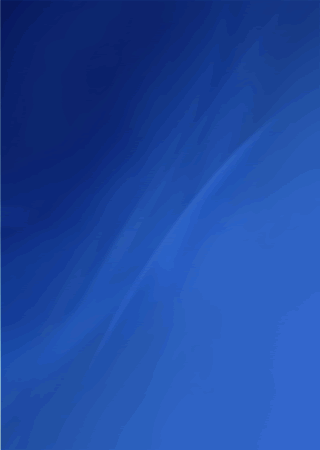
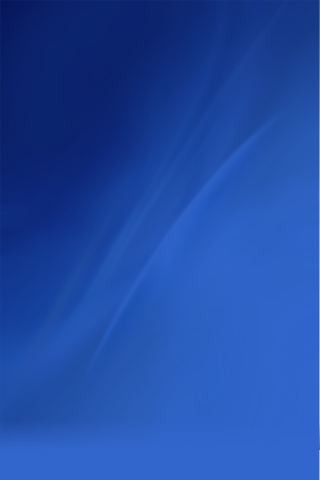
UP-2951 Updates to skin: smooth background colors, add list button styles, add margins to headings
git-svn-id: https://source.jasig.org/uPortal/trunk@23303 f5dbab47-78f9-eb45-b975-e544023573eb

diff --git a/uportal-war/src/main/webapp/media/skins/muniversality/common/portal.css b/uportal-war/src/main/webapp/media/skins/muniversality/common/portal.css
@@ -318,7 +318,7 @@ body, select, input, textarea {
 /* Headers (h1, h2, etc) have no default font-size or margin; define those yourself */
 h1, h2, h3, h4, h5, h6 {
   font-weight: bold;
-  margin-bottom: 0.5em;
+  margin: 1em 0;
 }
 
 h1 {
@@ -368,6 +368,7 @@ a:hover {
   visibility: hidden;
 }
 .up .logo {
+  margin-top: 10px;
   text-align: center;
 }
 
@@ -378,13 +379,28 @@ a:hover {
  * Styles specific to navigation.
  */
 /* Portlet Navigation */
+.up .portal-nav {
+  width: 300px;
+  margin: 0 auto;
+  text-align: center;
+  zoom: 1;
+}
+.up .portal-nav:before, .up .portal-nav:after {
+  content: "\0020";
+  display: block;
+  height: 0;
+  overflow: hidden;
+}
+.up .portal-nav:after {
+  clear: both;
+}
 .up .portal-nav .portlet {
   display: block;
   float: left;
   width: 70px;
-  height: 80px;
+  height: 84px;
   overflow: hidden;
-  margin: 0.5em;
+  margin: 10px;
 }
 .up .portal-nav .portlet .icon, .up .portal-nav .portlet .title {
   display: block;
@@ -424,12 +440,13 @@ a:hover {
 /* RGBA values include transparency and are easier than hexidecimal to use in 
 mathematical calculations. */
 /* Grayscale */
+/* Background color */
 /* Primary color, c1 */
 /* Secondary color, c2 */
 /* Tertiary color, c3 */
 /* Highlight color, c4 */
 .up {
-  background-color: #38678f;
+  background-color: #3366cc;
 }
 .up .ui-btn {
   font-family: Helvetica, Arial, sans-serif;
@@ -438,8 +455,7 @@ mathematical calculations. */
   border: 1px solid #38678f;
   color: white;
   text-shadow: 0 1px 0 black;
-  background: #4682b4 url("images/bg_320x480_flat.png") 0 25px no-repeat;
-  /*@include gradient($c1light, $c1dark);*/
+  background: #3366cc url("images/bg_320x480_flat.png") 0 25px no-repeat;
 }
 .up .dashboard .ui-link-inherit {
   color: white;
@@ -560,6 +576,45 @@ mathematical calculations. */
   text-decoration: none;
   background-image: -moz-linear-gradient(top, #294d6b, #4682b4);
   background-image: -webkit-gradient(linear, left top, left bottom, color-stop(0, #294d6b), color-stop(1, #4682b4));
+  -ms-filter: "progid:DXImageTransform.Microsoft.gradient(startColorStr='$color1', EndColorStr='$color2')";
+}
+.up .portlet-wrapper-content .ui-btn {
+  border: 1px solid #a9a9a9;
+  background: #f5f5f5;
+  font-weight: bold;
+  color: #444444;
+  cursor: pointer;
+  text-shadow: 0 1px 1px white;
+  text-decoration: none;
+  background-image: -moz-linear-gradient(top, #f5f5f5, #dcdcdc);
+  background-image: -webkit-gradient(linear, left top, left bottom, color-stop(0, #f5f5f5), color-stop(1, #dcdcdc));
+  -ms-filter: "progid:DXImageTransform.Microsoft.gradient(startColorStr='$color1', EndColorStr='$color2')";
+}
+.up .portlet-wrapper-content .ui-btn a.ui-link-inherit {
+  color: #5c5c5c;
+}
+.up .portlet-wrapper-content .ui-btn-hover-a, .up .portlet-wrapper-content .ui-btn-hover-b, .up .portlet-wrapper-content .ui-btn-hover-c, .up .portlet-wrapper-content .ui-btn-hover-d, .up .portlet-wrapper-content .ui-btn-hover-e {
+  border: 1px solid #8f8f8f;
+  background: #c3c3c3;
+  font-weight: bold;
+  color: black;
+  cursor: pointer;
+  text-shadow: 0 1px 1px white;
+  text-decoration: none;
+  background-image: -moz-linear-gradient(top, #dcdcdc, #c3c3c3);
+  background-image: -webkit-gradient(linear, left top, left bottom, color-stop(0, #dcdcdc), color-stop(1, #c3c3c3));
+  -ms-filter: "progid:DXImageTransform.Microsoft.gradient(startColorStr='$color1', EndColorStr='$color2')";
+}
+.up .portlet-wrapper-content .ui-btn-down-a, .up .portlet-wrapper-content .ui-btn-down-b, .up .portlet-wrapper-content .ui-btn-down-c, .up .portlet-wrapper-content .ui-btn-down-d, .up .portlet-wrapper-content .ui-btn-down-e {
+  border: 1px solid #294d6b;
+  background: #4682b4;
+  font-weight: bold;
+  color: white;
+  cursor: pointer;
+  text-shadow: 0 -1px 1px black;
+  text-decoration: none;
+  background-image: -moz-linear-gradient(top, #c3c3c3, #f5f5f5);
+  background-image: -webkit-gradient(linear, left top, left bottom, color-stop(0, #c3c3c3), color-stop(1, #f5f5f5));
   -ms-filter: "progid:DXImageTransform.Microsoft.gradient(startColorStr='$color1', EndColorStr='$color2')";
 }
 .up .portal-nav .portlet .icon {

diff --git a/uportal-war/src/main/webapp/media/skins/muniversality/common/scss/_theme.scss b/uportal-war/src/main/webapp/media/skins/muniversality/common/scss/_theme.scss
@@ -38,6 +38,9 @@ $graylight: lighten($gray, 10%);
 $graylighter: lighten($gray, 20%);
 $graylightest: lighten($gray, 30%);
 
+/* Background color */
+$bgc: rgba(51, 102, 204, 1);
+
 /* Primary color, c1 */
 $c1: rgba(70, 130, 180, 1);
 $c1dark: darken($c1, 10%);
@@ -76,7 +79,7 @@ $c4lightest: lighten($c4, 30%);
 
 
 .up {
-	background-color:$c1dark;
+	background-color:$bgc;
 	
 	.ui-btn { font-family: Helvetica, Arial, sans-serif; }
 	
@@ -84,8 +87,7 @@ $c4lightest: lighten($c4, 30%);
 		border: 1px solid $c1dark;
 		color: $white;
 		text-shadow: 0 1px 0 $black;
-		background: $c1 url("images/bg_320x480_flat.png") 0 25px no-repeat;
-		/*@include gradient($c1light, $c1dark);*/
+		background: $bgc url("images/bg_320x480_flat.png") 0 25px no-repeat;
 		
 		.ui-link-inherit { color: $white; }
 		.ui-link { 
@@ -196,6 +198,41 @@ $c4lightest: lighten($c4, 30%);
 				text-decoration: none;
 				@include gradient($c1darker, $c1);
 			}
+		}
+		
+		.ui-btn {
+			border: 1px solid $gray;
+			background: $graylightest;
+			font-weight: bold;
+			color: $text;
+			cursor: pointer;
+			text-shadow: 0 1px 1px $white;
+			text-decoration: none;
+			@include gradient($graylightest, $graylighter);
+			
+			a.ui-link-inherit { color: $graydarkest;}
+		}
+		
+		.ui-btn-hover-a, .ui-btn-hover-b, .ui-btn-hover-c, .ui-btn-hover-d, .ui-btn-hover-e, {
+			border: 1px solid $graydark;
+			background: $graylight;
+			font-weight: bold;
+			color: $black;
+			cursor: pointer;
+			text-shadow: 0 1px 1px $white;
+			text-decoration: none;
+			@include gradient($graylighter, $graylight);
+		}
+		
+		.ui-btn-down-a, .ui-btn-down-b, .ui-btn-down-c, .ui-btn-down-d, .ui-btn-down-e, {
+			border: 1px solid $c1darker;
+			background: $c1;
+			font-weight: bold;
+			color: $white;
+			cursor: pointer;
+			text-shadow: 0 -1px 1px $black;
+			text-decoration: none;
+			@include gradient($graylight, $graylightest);
 		}
 	}
 	

diff --git a/uportal-war/src/main/webapp/media/skins/muniversality/common/scss/_reset.scss b/uportal-war/src/main/webapp/media/skins/muniversality/common/scss/_reset.scss
@@ -168,7 +168,7 @@ body, select, input, textarea {
 }
 
 /* Headers (h1, h2, etc) have no default font-size or margin; define those yourself */
-h1, h2, h3, h4, h5, h6 { font-weight: bold; margin-bottom:0.5em; }
+h1, h2, h3, h4, h5, h6 { font-weight: bold; margin: 1em 0; }
 h1 { font-size:200%; }
 h2 { font-size:170%; }
 h3 { font-size:150%; }

diff --git a/uportal-war/src/main/webapp/media/skins/muniversality/common/scss/_navigation.scss b/uportal-war/src/main/webapp/media/skins/muniversality/common/scss/_navigation.scss
@@ -10,13 +10,18 @@
 .up {
 	
 	.portal-nav {
+		width: 300px;
+		margin: 0 auto;
+		text-align: center;
+		@include clearfix();
+		
 		.portlet {
 			display: block;
 			float: left;
 			width: 70px;
-			height: 80px;
+			height: 84px;
 			overflow: hidden;
-			margin: 0.5em;
+			margin: 10px;
 			
 			.icon, .title {
 				display: block;

diff --git a/uportal-war/src/main/webapp/media/skins/muniversality/common/scss/_layout.scss b/uportal-war/src/main/webapp/media/skins/muniversality/common/scss/_layout.scss
@@ -22,6 +22,7 @@
 	}
 	
 	.logo {
+		margin-top: 10px;
 		text-align: center;
 	}
 }
